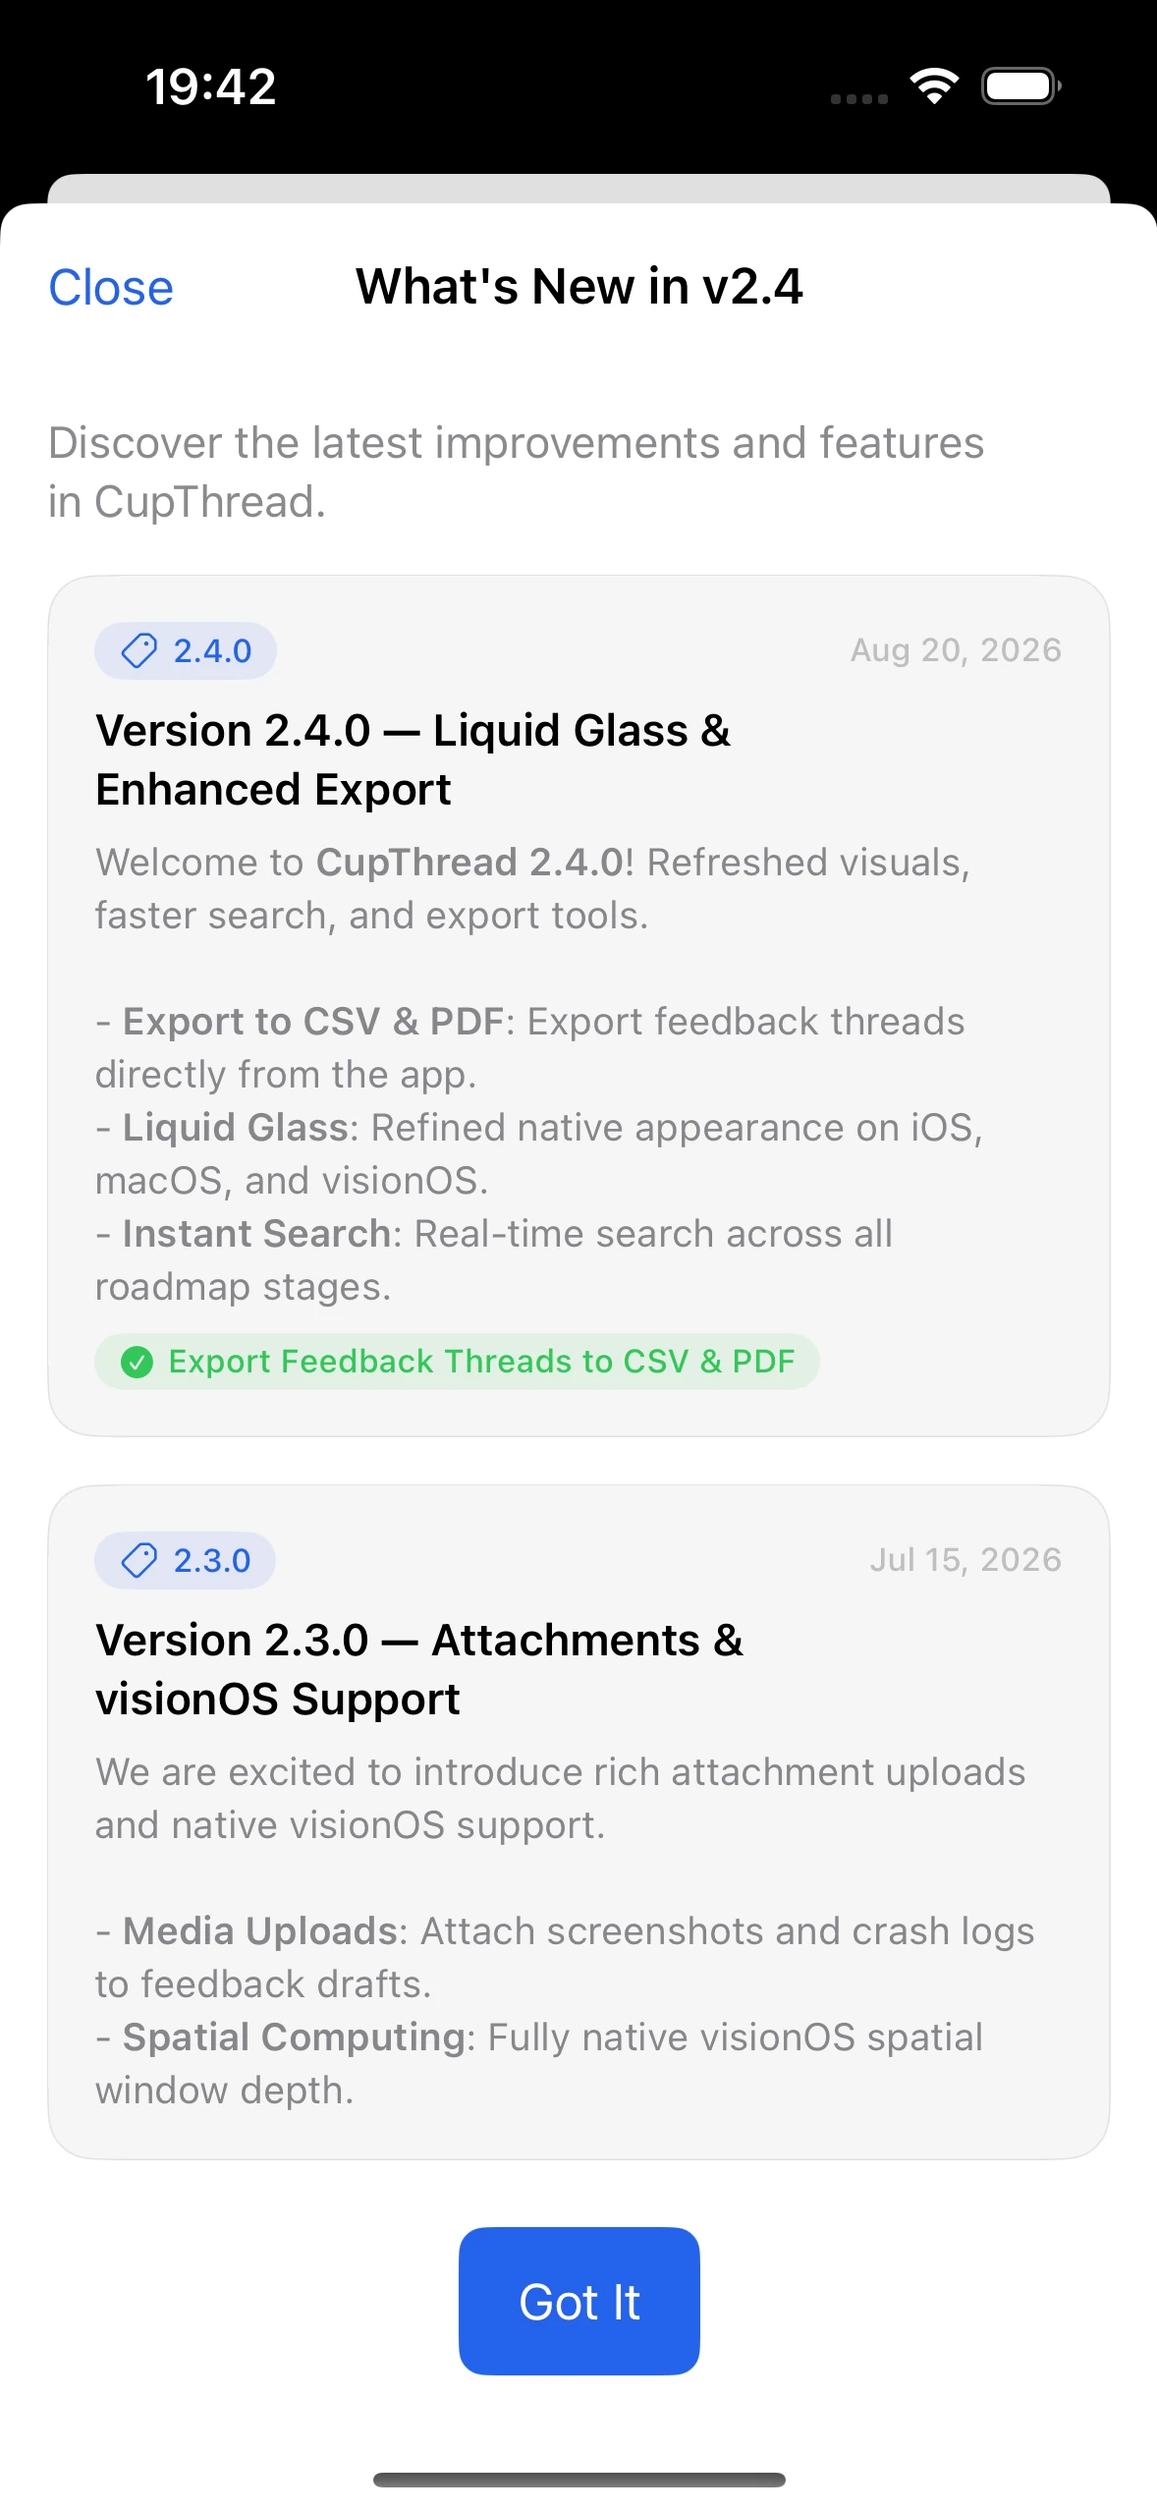
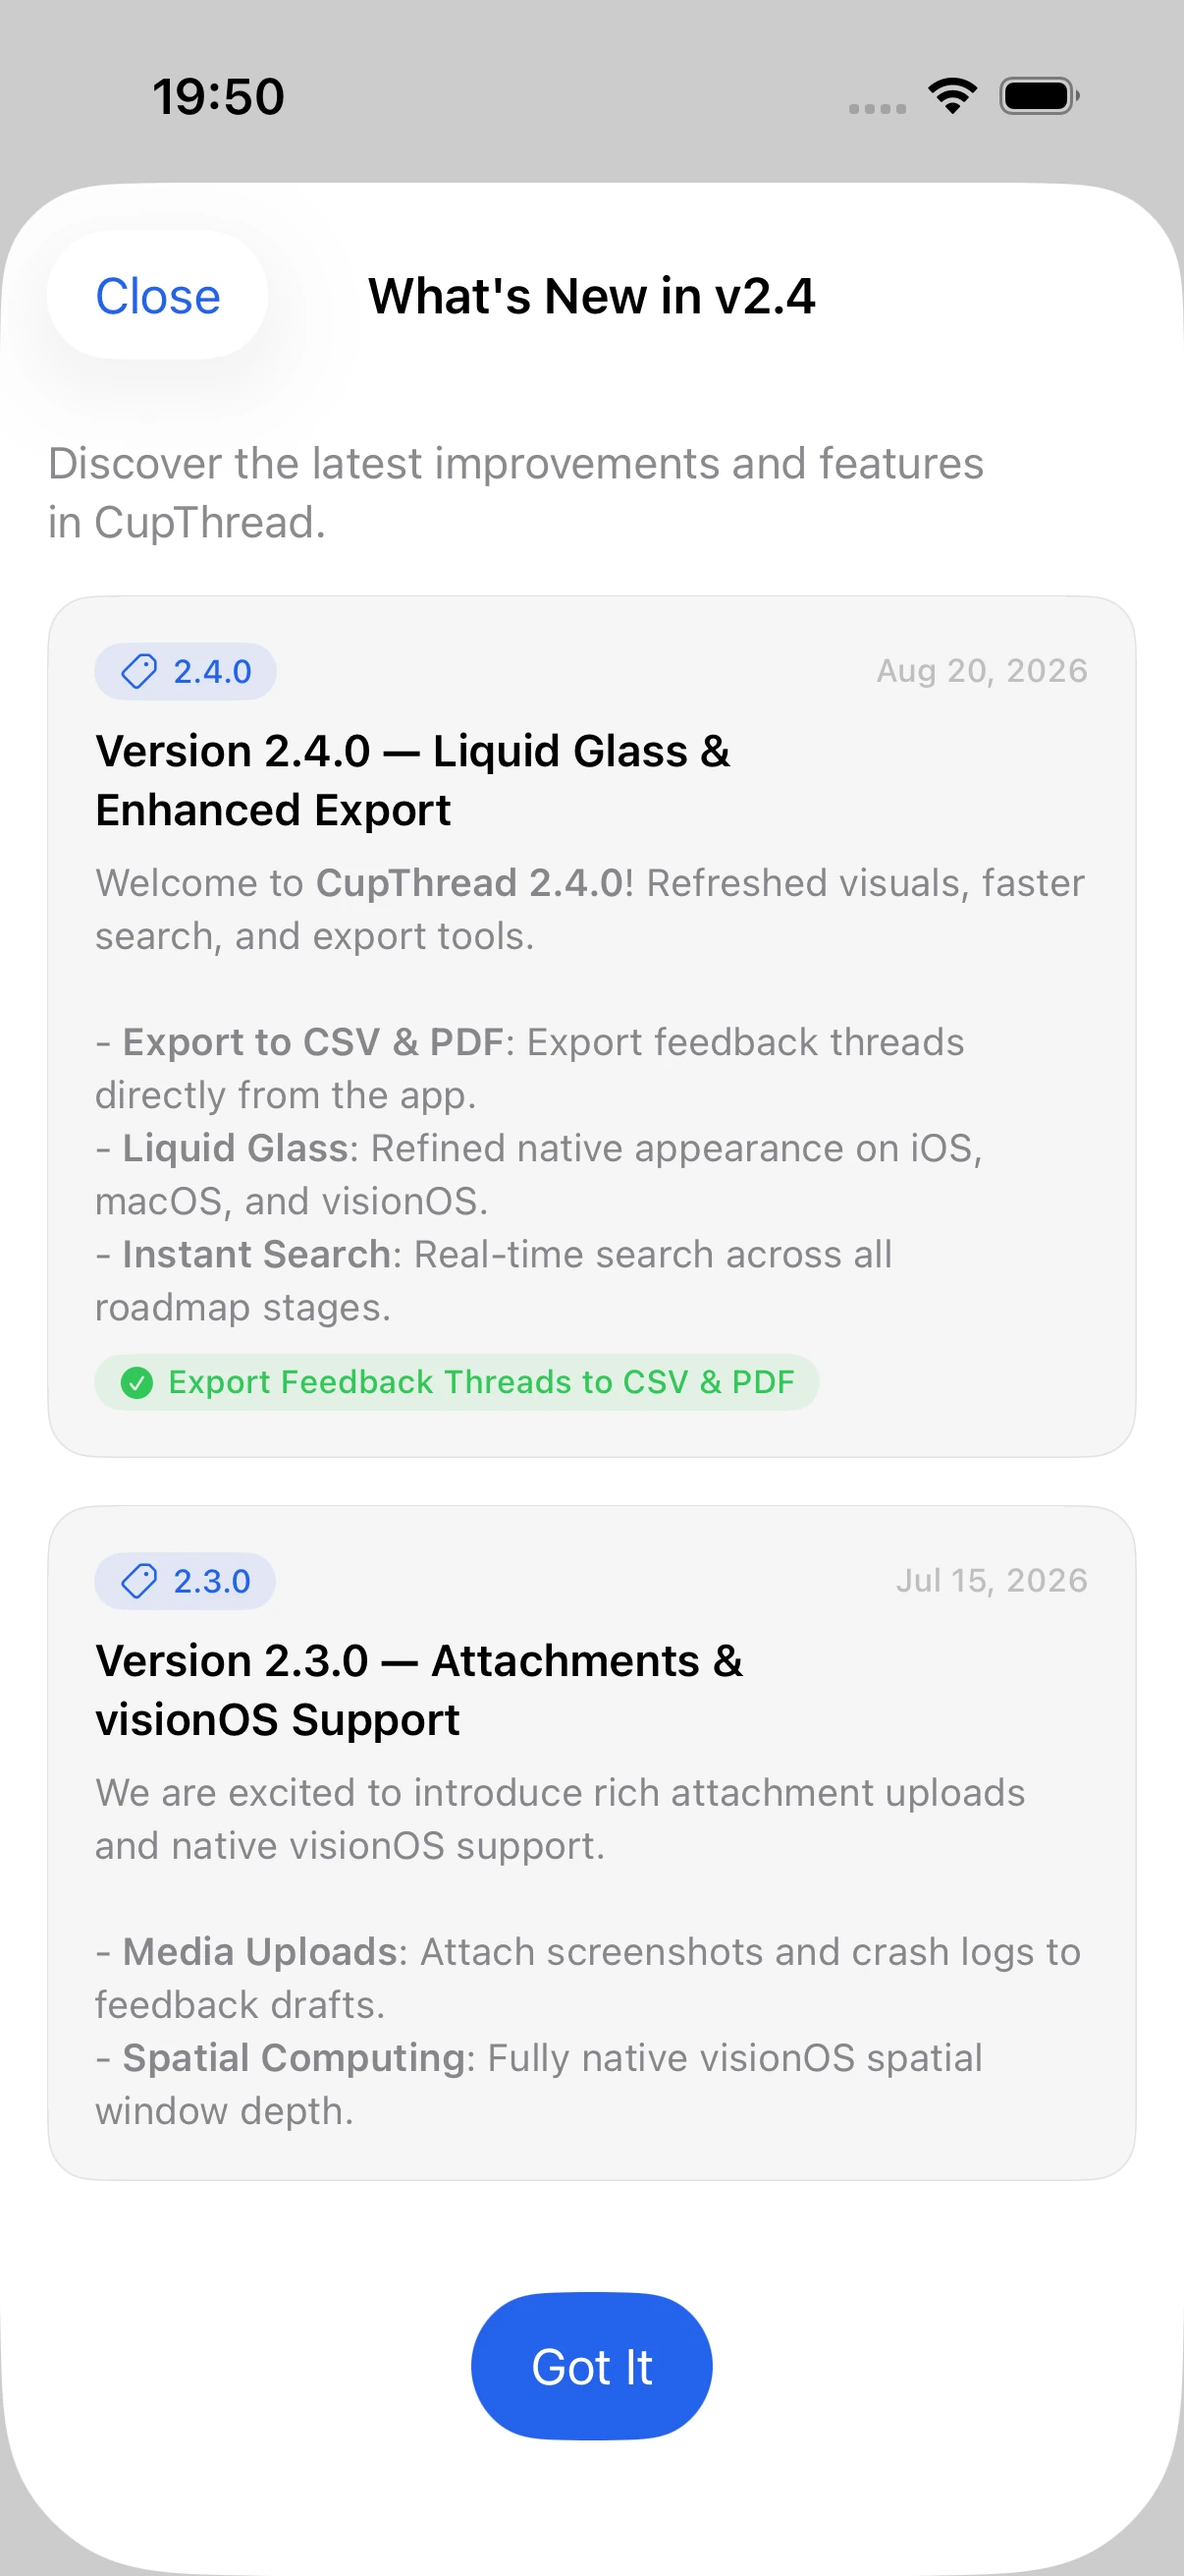
feat: standardize UI screenshot capture on iPhone 17 screen resolution
- Update CupThreadDemoUITests to use XCUIScreen.main.screenshot() ensuring pixel-perfect full-screen captures
- Switch capture-screenshots.sh target simulator default to iPhone 17 (1206x2622 @3x)
- Re-generate all 6 WebP screenshots to exact uniform dimensions

diff --git a/Demo/CupThreadDemoUITests/CupThreadDemoUITests.swift b/Demo/CupThreadDemoUITests/CupThreadDemoUITests.swift
@@ -20,7 +20,7 @@ final class CupThreadDemoUITests: XCTestCase {
         // Allow UI animations and render loop to settle
         Thread.sleep(forTimeInterval: 1.0)
 
-        saveScreenshot(app.screenshot(), name: "roadmap")
+        saveScreenshot(XCUIScreen.main.screenshot(), name: "roadmap")
     }
 
     @MainActor
@@ -34,7 +34,7 @@ final class CupThreadDemoUITests: XCTestCase {
 
         Thread.sleep(forTimeInterval: 1.0)
 
-        saveScreenshot(app.screenshot(), name: "feature_requests")
+        saveScreenshot(XCUIScreen.main.screenshot(), name: "feature_requests")
     }
 
     @MainActor
@@ -48,7 +48,7 @@ final class CupThreadDemoUITests: XCTestCase {
 
         Thread.sleep(forTimeInterval: 1.0)
 
-        saveScreenshot(app.screenshot(), name: "submit_request")
+        saveScreenshot(XCUIScreen.main.screenshot(), name: "submit_request")
     }
 
     @MainActor
@@ -62,7 +62,7 @@ final class CupThreadDemoUITests: XCTestCase {
 
         Thread.sleep(forTimeInterval: 1.0)
 
-        saveScreenshot(app.screenshot(), name: "whats_new")
+        saveScreenshot(XCUIScreen.main.screenshot(), name: "whats_new")
     }
 
     @MainActor
@@ -78,7 +78,7 @@ final class CupThreadDemoUITests: XCTestCase {
 
         Thread.sleep(forTimeInterval: 1.0)
 
-        saveScreenshot(app.screenshot(), name: "changelog_overlay")
+        saveScreenshot(XCUIScreen.main.screenshot(), name: "changelog_overlay")
     }
 
     @MainActor
@@ -92,7 +92,7 @@ final class CupThreadDemoUITests: XCTestCase {
 
         Thread.sleep(forTimeInterval: 1.0)
 
-        saveScreenshot(app.screenshot(), name: "feedback_composer")
+        saveScreenshot(XCUIScreen.main.screenshot(), name: "feedback_composer")
     }
 
     // MARK: - Interactive Navigation Test
